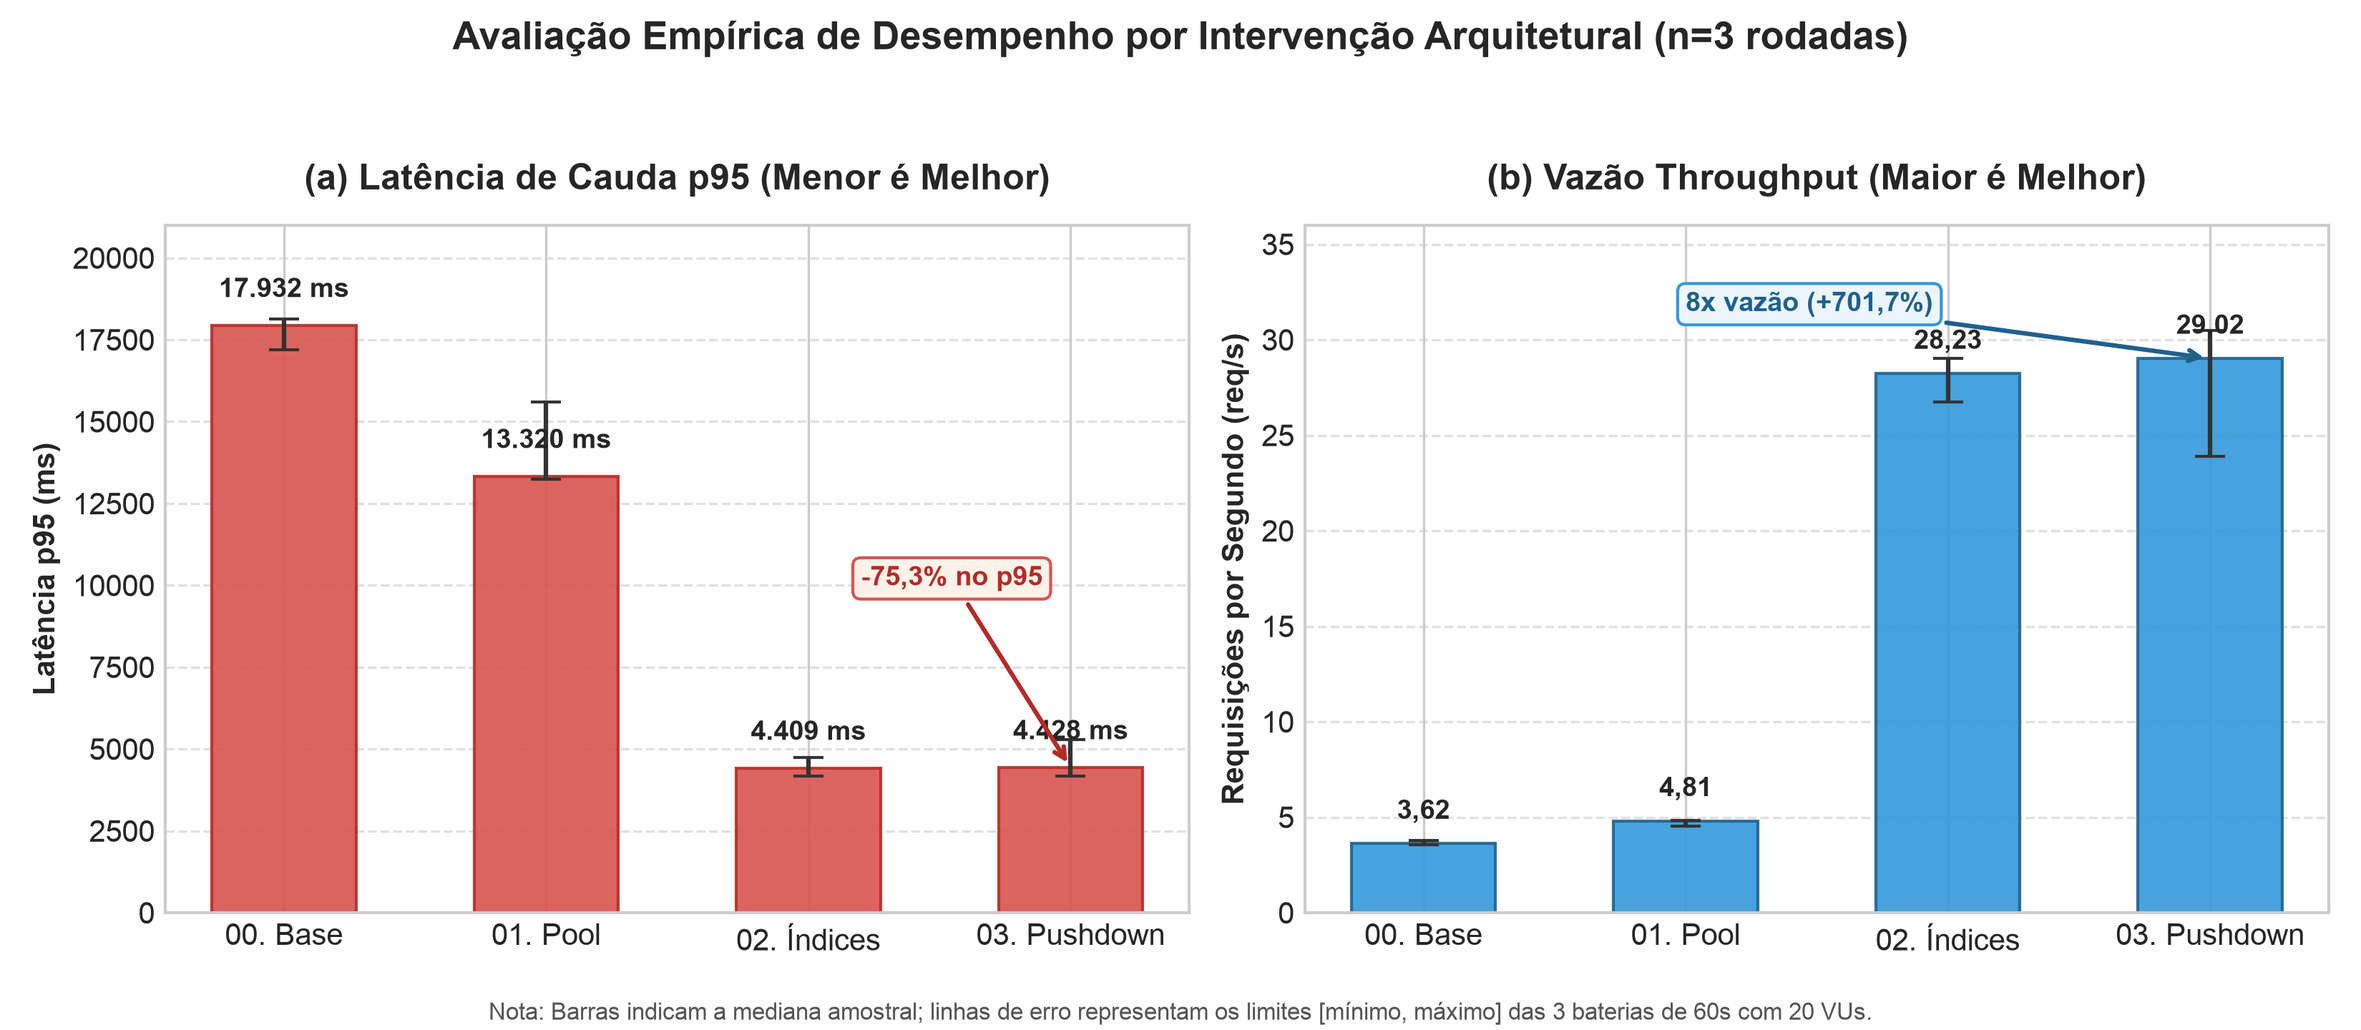
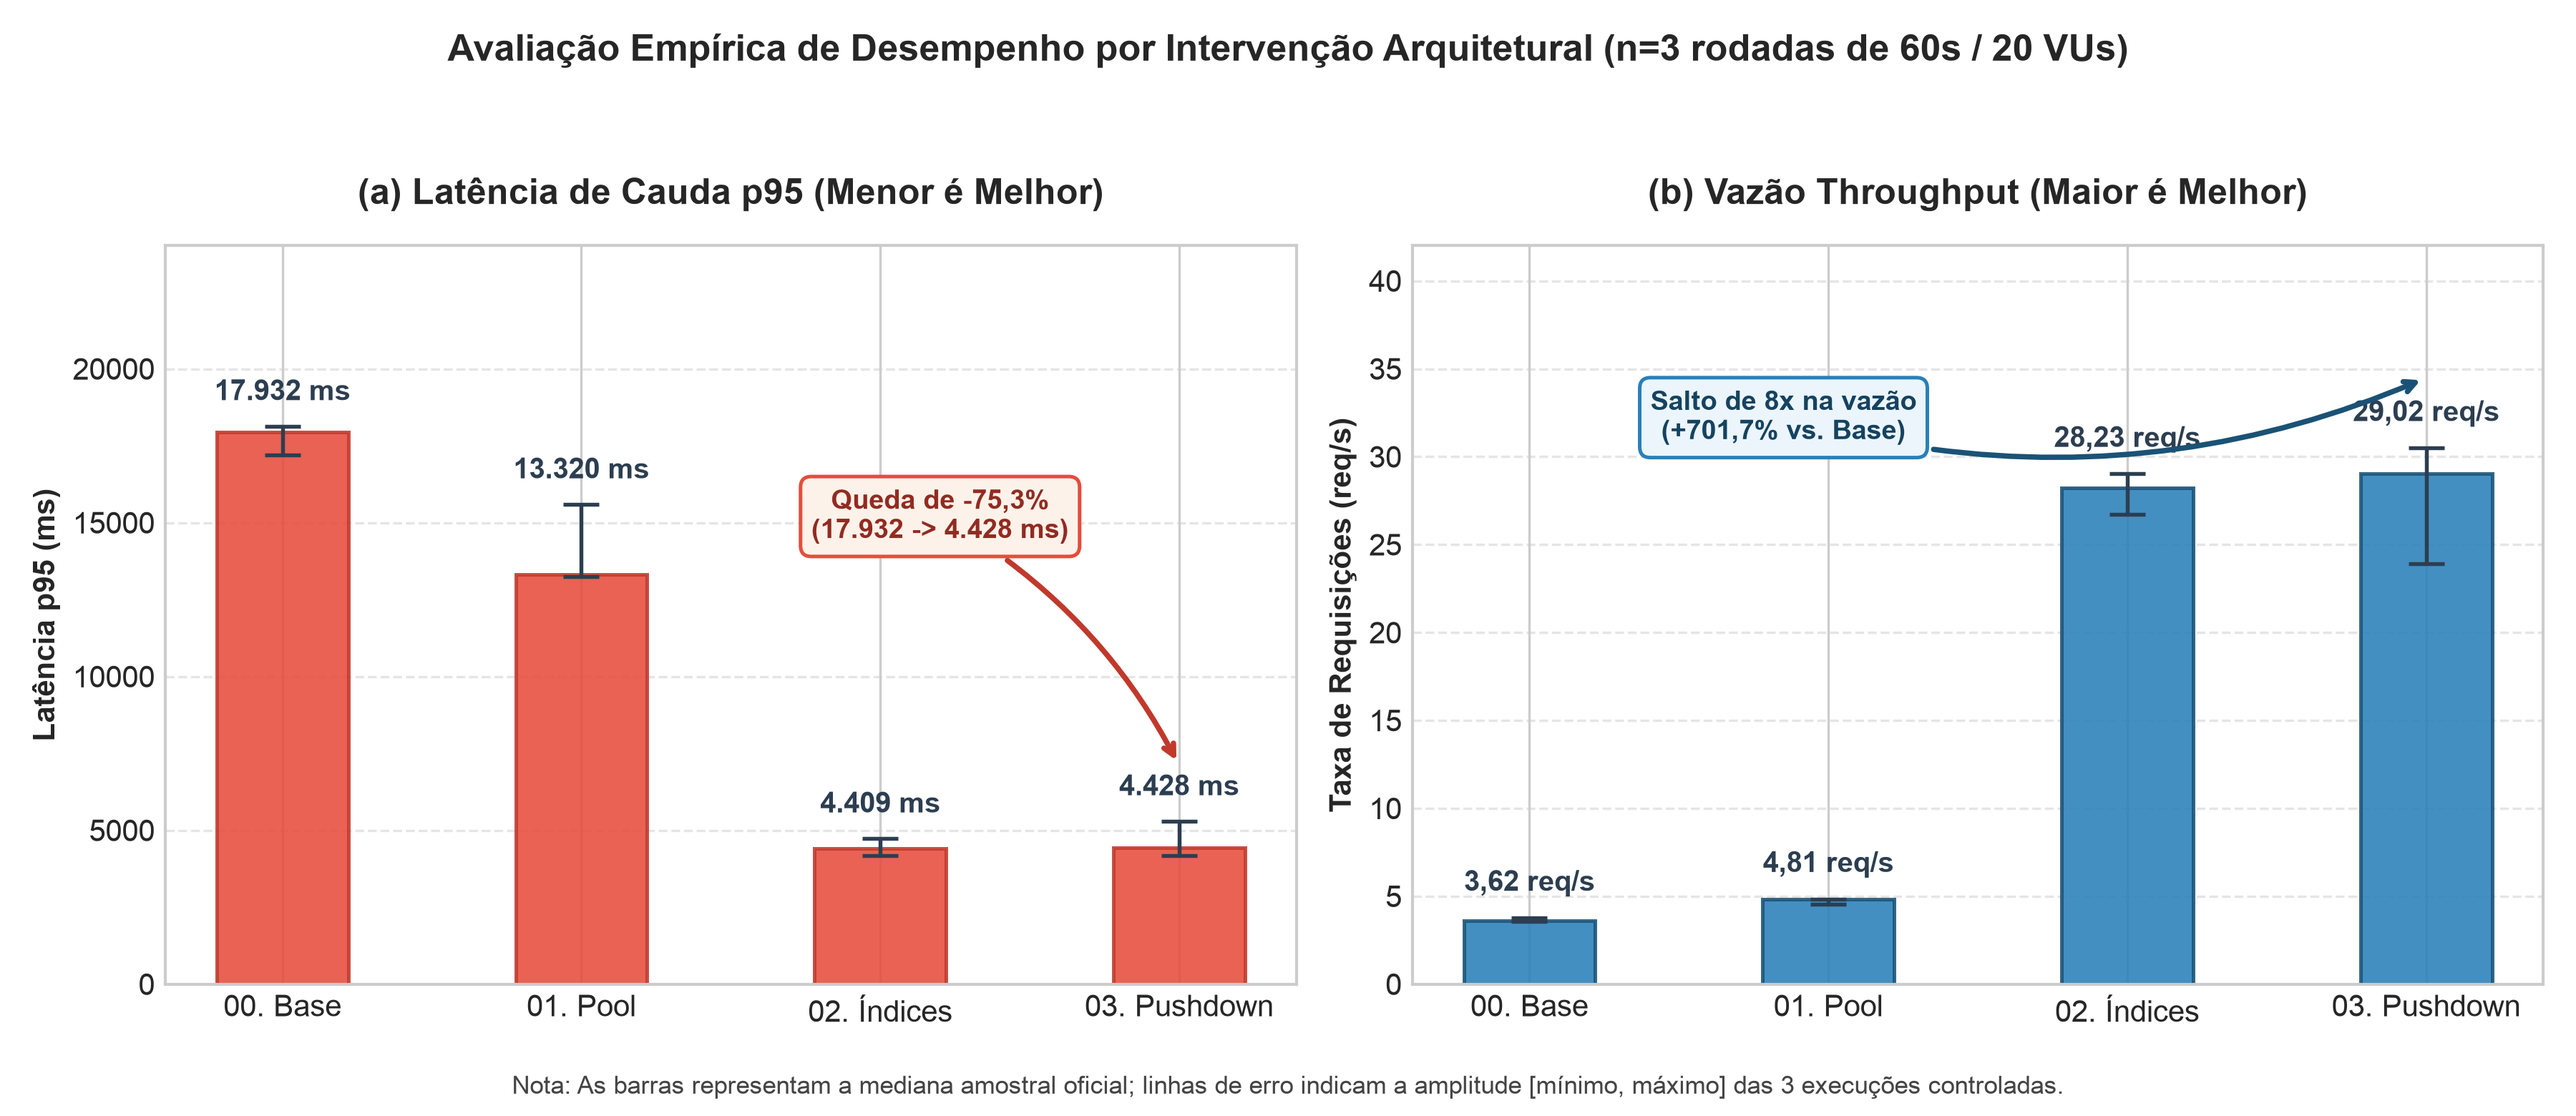
fix(grafico): ajustar espacamento e limites dos eixos para eliminar colisoes de texto

diff --git a/artigo/gerar_grafico.py b/artigo/gerar_grafico.py
@@ -34,71 +34,87 @@ rps_err_high = [mx - med for med, mx in zip(rps_medians, rps_maxs)]
 
 # Estilo de publicacao cientifica
 plt.style.use('seaborn-v0_8-whitegrid' if 'seaborn-v0_8-whitegrid' in plt.style.available else 'default')
-fig, (ax1, ax2) = plt.subplots(1, 2, figsize=(11, 4.8), dpi=300)
+fig, (ax1, ax2) = plt.subplots(1, 2, figsize=(12, 5.2), dpi=300)
+
+width = 0.44
 
 # Painel A: Latencia de Cauda p95
 bars1 = ax1.bar(
     x, p95_medians,
     yerr=[p95_err_low, p95_err_high],
-    capsize=5,
-    color='#d9534f',
-    edgecolor='#b52b27',
-    width=0.55,
-    alpha=0.9,
-    ecolor='#333333'
+    capsize=6,
+    color='#e74c3c',
+    edgecolor='#c0392b',
+    linewidth=1.2,
+    width=width,
+    alpha=0.88,
+    error_kw=dict(ecolor='#2c3e50', lw=1.3, capthick=1.3)
 )
-ax1.set_title('(a) Latência de Cauda p95 (Menor é Melhor)', fontsize=12, fontweight='bold', pad=12)
+ax1.set_title('(a) Latência de Cauda p95 (Menor é Melhor)', fontsize=12, fontweight='bold', pad=14)
 ax1.set_ylabel('Latência p95 (ms)', fontsize=10, fontweight='bold')
 ax1.set_xticks(x)
 ax1.set_xticklabels(labels, fontsize=10)
-ax1.set_ylim(0, 21000)
-ax1.grid(axis='y', linestyle='--', alpha=0.6)
+ax1.set_ylim(0, 24000)
+ax1.grid(axis='y', linestyle='--', alpha=0.5)
 
-for bar, med in zip(bars1, p95_medians):
-    yval = bar.get_height()
-    ax1.text(bar.get_x() + bar.get_width() / 2.0, yval + 700, f'{med:,.0f} ms'.replace(',', '.'),
-             ha='center', va='bottom', fontsize=9, fontweight='bold')
+# Rotulos de valores posicionados sempre ACIMA da barra de erro superior para evitar colisao
+for bar, med, mx in zip(bars1, p95_medians, p95_maxs):
+    y_pos = mx + 650
+    ax1.text(bar.get_x() + bar.get_width() / 2.0, y_pos,
+             f'{med:,.0f} ms'.replace(',', '.'),
+             ha='center', va='bottom', fontsize=9.5, fontweight='bold', color='#2c3e50')
 
-ax1.annotate('-75,3% no p95', xy=(3, 4428.0), xytext=(2.2, 10000),
-             arrowprops=dict(arrowstyle='->', lw=1.5, color='#b52b27'),
-             fontsize=9, fontweight='bold', color='#b52b27',
-             bbox=dict(boxstyle='round,pad=0.3', facecolor='#fdf2e9', edgecolor='#d9534f', lw=1))
+# Anotacao de reducao com posicionamento isolado
+ax1.annotate('Queda de -75,3%\n(17.932 -> 4.428 ms)',
+             xy=(3, p95_maxs[3] + 1800),
+             xytext=(2.2, 14500),
+             arrowprops=dict(arrowstyle='->', lw=1.8, color='#c0392b', connectionstyle='arc3,rad=-0.15'),
+             fontsize=9, fontweight='bold', color='#922b21',
+             ha='center',
+             bbox=dict(boxstyle='round,pad=0.4', facecolor='#fdf2e9', edgecolor='#e74c3c', lw=1.2))
 
 # Painel B: Vazao Throughput
 bars2 = ax2.bar(
     x, rps_medians,
     yerr=[rps_err_low, rps_err_high],
-    capsize=5,
-    color='#3498db',
-    edgecolor='#1f618d',
-    width=0.55,
-    alpha=0.9,
-    ecolor='#333333'
+    capsize=6,
+    color='#2980b9',
+    edgecolor='#1a5276',
+    linewidth=1.2,
+    width=width,
+    alpha=0.88,
+    error_kw=dict(ecolor='#2c3e50', lw=1.3, capthick=1.3)
 )
-ax2.set_title('(b) Vazão Throughput (Maior é Melhor)', fontsize=12, fontweight='bold', pad=12)
-ax2.set_ylabel('Requisições por Segundo (req/s)', fontsize=10, fontweight='bold')
+ax2.set_title('(b) Vazão Throughput (Maior é Melhor)', fontsize=12, fontweight='bold', pad=14)
+ax2.set_ylabel('Taxa de Requisições (req/s)', fontsize=10, fontweight='bold')
 ax2.set_xticks(x)
 ax2.set_xticklabels(labels, fontsize=10)
-ax2.set_ylim(0, 36)
-ax2.grid(axis='y', linestyle='--', alpha=0.6)
+ax2.set_ylim(0, 42)
+ax2.grid(axis='y', linestyle='--', alpha=0.5)
 
-for bar, med in zip(bars2, rps_medians):
-    yval = bar.get_height()
-    ax2.text(bar.get_x() + bar.get_width() / 2.0, yval + 1.0, f'{med:.2f}'.replace('.', ','),
-             ha='center', va='bottom', fontsize=9, fontweight='bold')
+# Rotulos de valores posicionados sempre ACIMA da barra de erro superior para evitar colisao
+for bar, med, mx in zip(bars2, rps_medians, rps_maxs):
+    y_pos = mx + 1.2
+    ax2.text(bar.get_x() + bar.get_width() / 2.0, y_pos,
+             f'{med:.2f} req/s'.replace('.', ','),
+             ha='center', va='bottom', fontsize=9.5, fontweight='bold', color='#2c3e50')
 
-ax2.annotate('8x vazão (+701,7%)', xy=(3, 29.02), xytext=(1.0, 31.5),
-             arrowprops=dict(arrowstyle='->', lw=1.5, color='#1f618d'),
-             fontsize=9, fontweight='bold', color='#1f618d',
-             bbox=dict(boxstyle='round,pad=0.3', facecolor='#ebf5fb', edgecolor='#3498db', lw=1))
+# Anotacao de ganho em regiao limpa e aberta (acima de Base e Pool)
+ax2.annotate('Salto de 8x na vazão\n(+701,7% vs. Base)',
+             xy=(3, rps_maxs[3] + 4.0),
+             xytext=(0.85, 31.0),
+             arrowprops=dict(arrowstyle='->', lw=1.8, color='#1a5276', connectionstyle='arc3,rad=0.18'),
+             fontsize=9, fontweight='bold', color='#154360',
+             ha='center',
+             bbox=dict(boxstyle='round,pad=0.4', facecolor='#ebf5fb', edgecolor='#2980b9', lw=1.2))
 
-fig.suptitle('Avaliação Empírica de Desempenho por Intervenção Arquitetural (n=3 rodadas)',
-             fontsize=13, fontweight='bold', y=0.98)
-fig.text(0.5, 0.01,
-         'Nota: Barras indicam a mediana amostral; linhas de erro representam os limites [mínimo, máximo] das 3 baterias de 60s com 20 VUs.',
-         ha='center', fontsize=8, color='#555555')
+fig.suptitle('Avaliação Empírica de Desempenho por Intervenção Arquitetural (n=3 rodadas de 60s / 20 VUs)',
+             fontsize=12.5, fontweight='bold', y=0.97)
+fig.text(0.5, 0.02,
+         'Nota: As barras representam a mediana amostral oficial; linhas de erro indicam a amplitude [mínimo, máximo] das 3 execuções controladas.',
+         ha='center', fontsize=8.5, color='#444444')
 
-plt.tight_layout(rect=[0, 0.04, 1, 0.94])
+plt.tight_layout(rect=[0, 0.05, 1, 0.93])
 output_path = os.path.join(os.path.dirname(__file__), 'img', 'p95-por-mudanca.png')
 plt.savefig(output_path, dpi=300)
 print(f'Grafico salvo com sucesso em: {output_path}')
